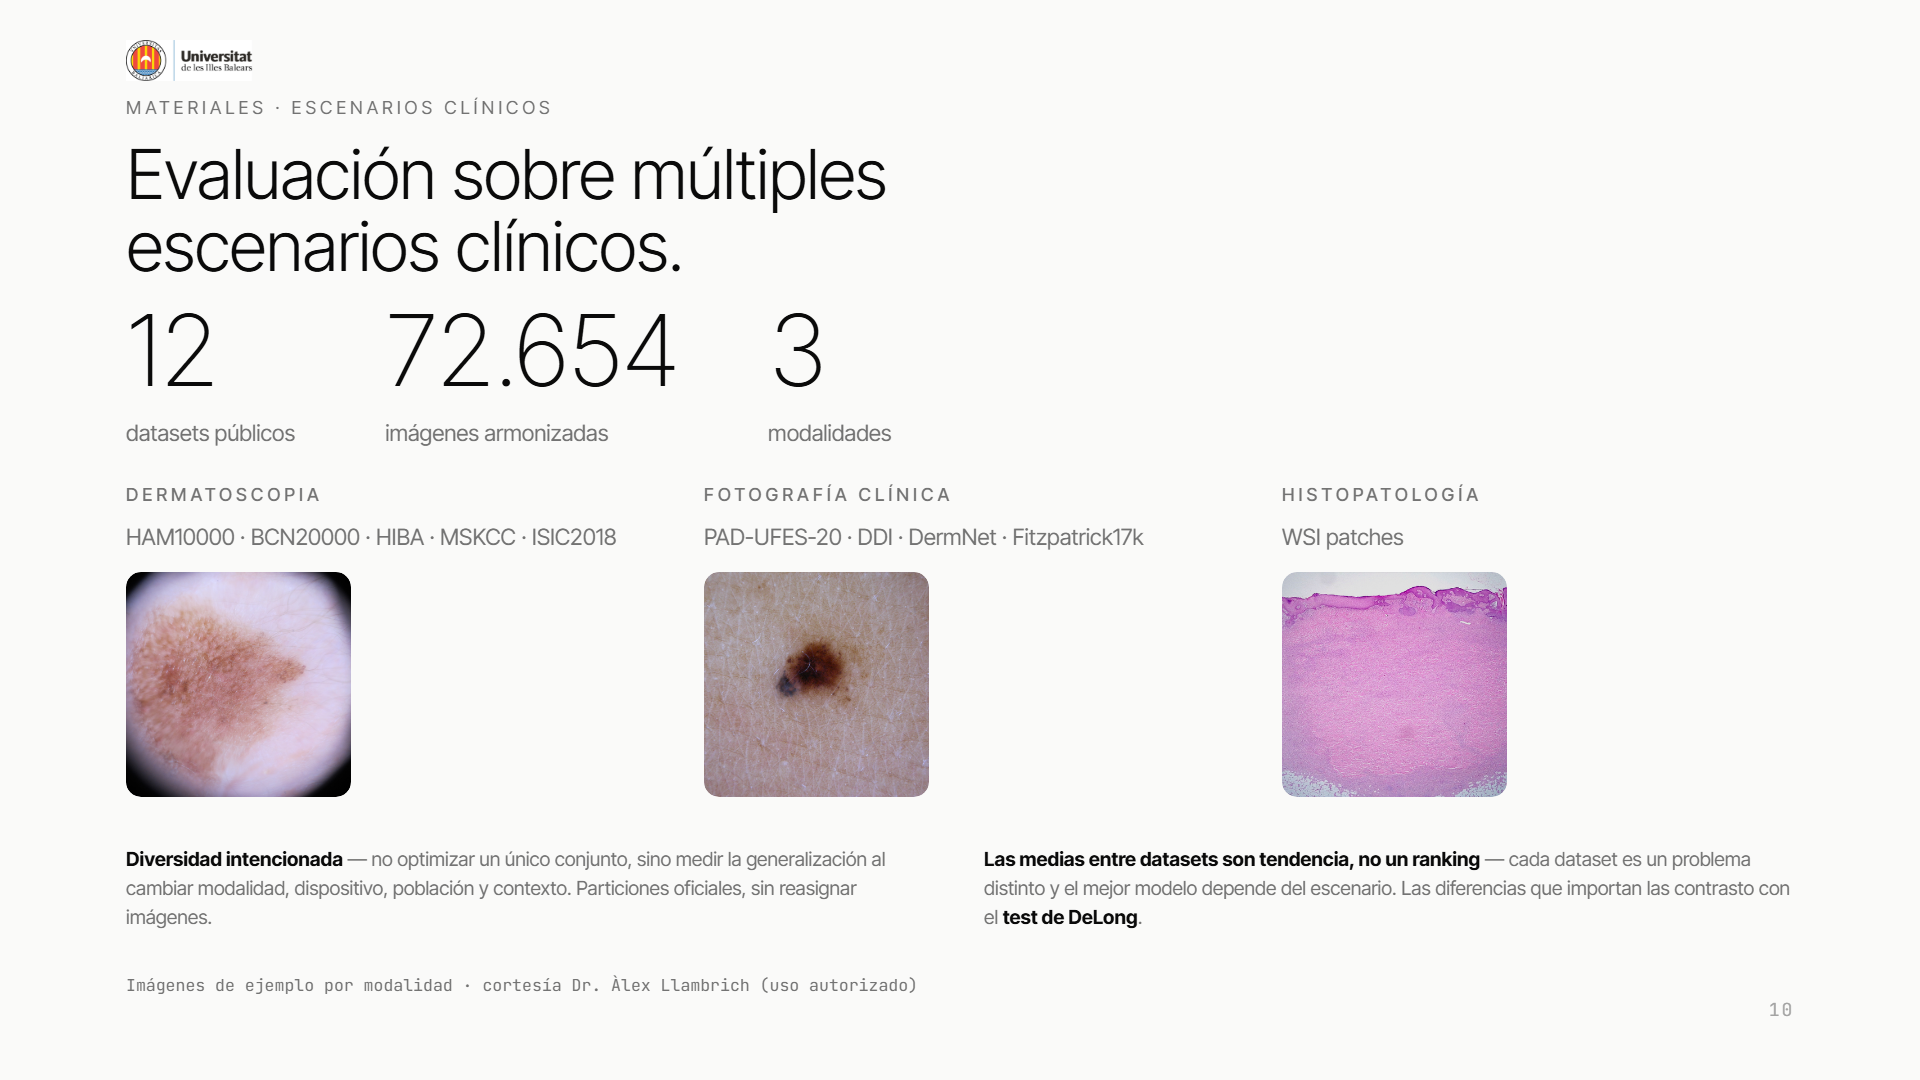
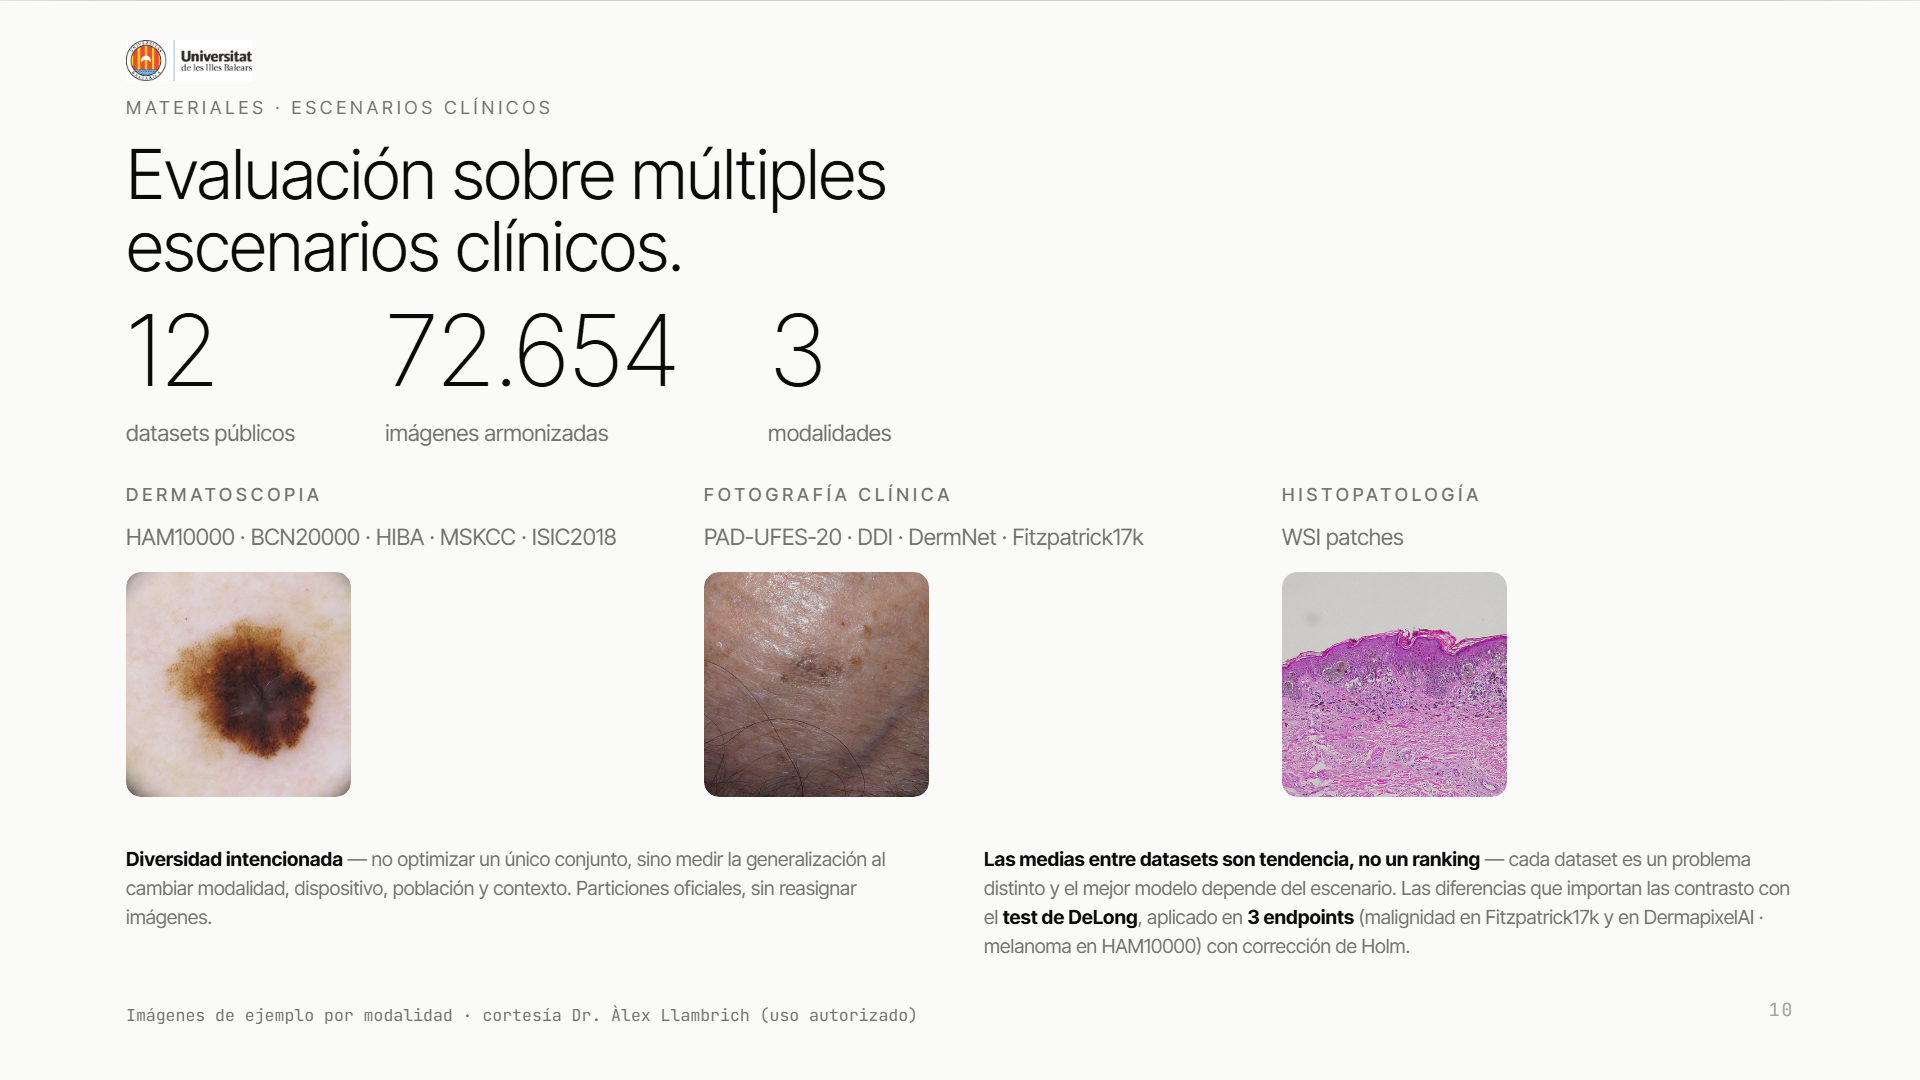
deck slide10: indica que DeLong se aplico en 3 endpoints (Fitzpatrick17k, DermapixelAI, HAM10000) con Holm

diff --git a/deck/index.html b/deck/index.html
@@ -463,7 +463,7 @@
       </div>
       <div style="display:flex; gap:32px; margin-top:8px">
         <div class="muted" style="flex:1; font-size:13px; line-height:1.5"><b style="color:var(--ink)">Diversidad intencionada</b> — no optimizar un único conjunto, sino medir la generalización al cambiar modalidad, dispositivo, población y contexto. Particiones oficiales, sin reasignar imágenes.</div>
-        <div class="muted" style="flex:1; font-size:13px; line-height:1.5"><b style="color:var(--ink)">Las medias entre datasets son tendencia, no un ranking</b> — cada dataset es un problema distinto y el mejor modelo depende del escenario. Las diferencias que importan las contrasto con el <b style="color:var(--ink)">test de DeLong</b>.</div>
+        <div class="muted" style="flex:1; font-size:13px; line-height:1.5"><b style="color:var(--ink)">Las medias entre datasets son tendencia, no un ranking</b> — cada dataset es un problema distinto y el mejor modelo depende del escenario. Las diferencias que importan las contrasto con el <b style="color:var(--ink)">test de DeLong</b>, aplicado en <b style="color:var(--ink)">3 endpoints</b> (malignidad en Fitzpatrick17k y en DermapixelAI · melanoma en HAM10000) con corrección de Holm.</div>
       </div>
       <div class="muted mono" style="font-size:11px; margin-top:4px">Imágenes de ejemplo por modalidad · cortesía Dr. Àlex Llambrich (uso autorizado)</div>
     </div>
